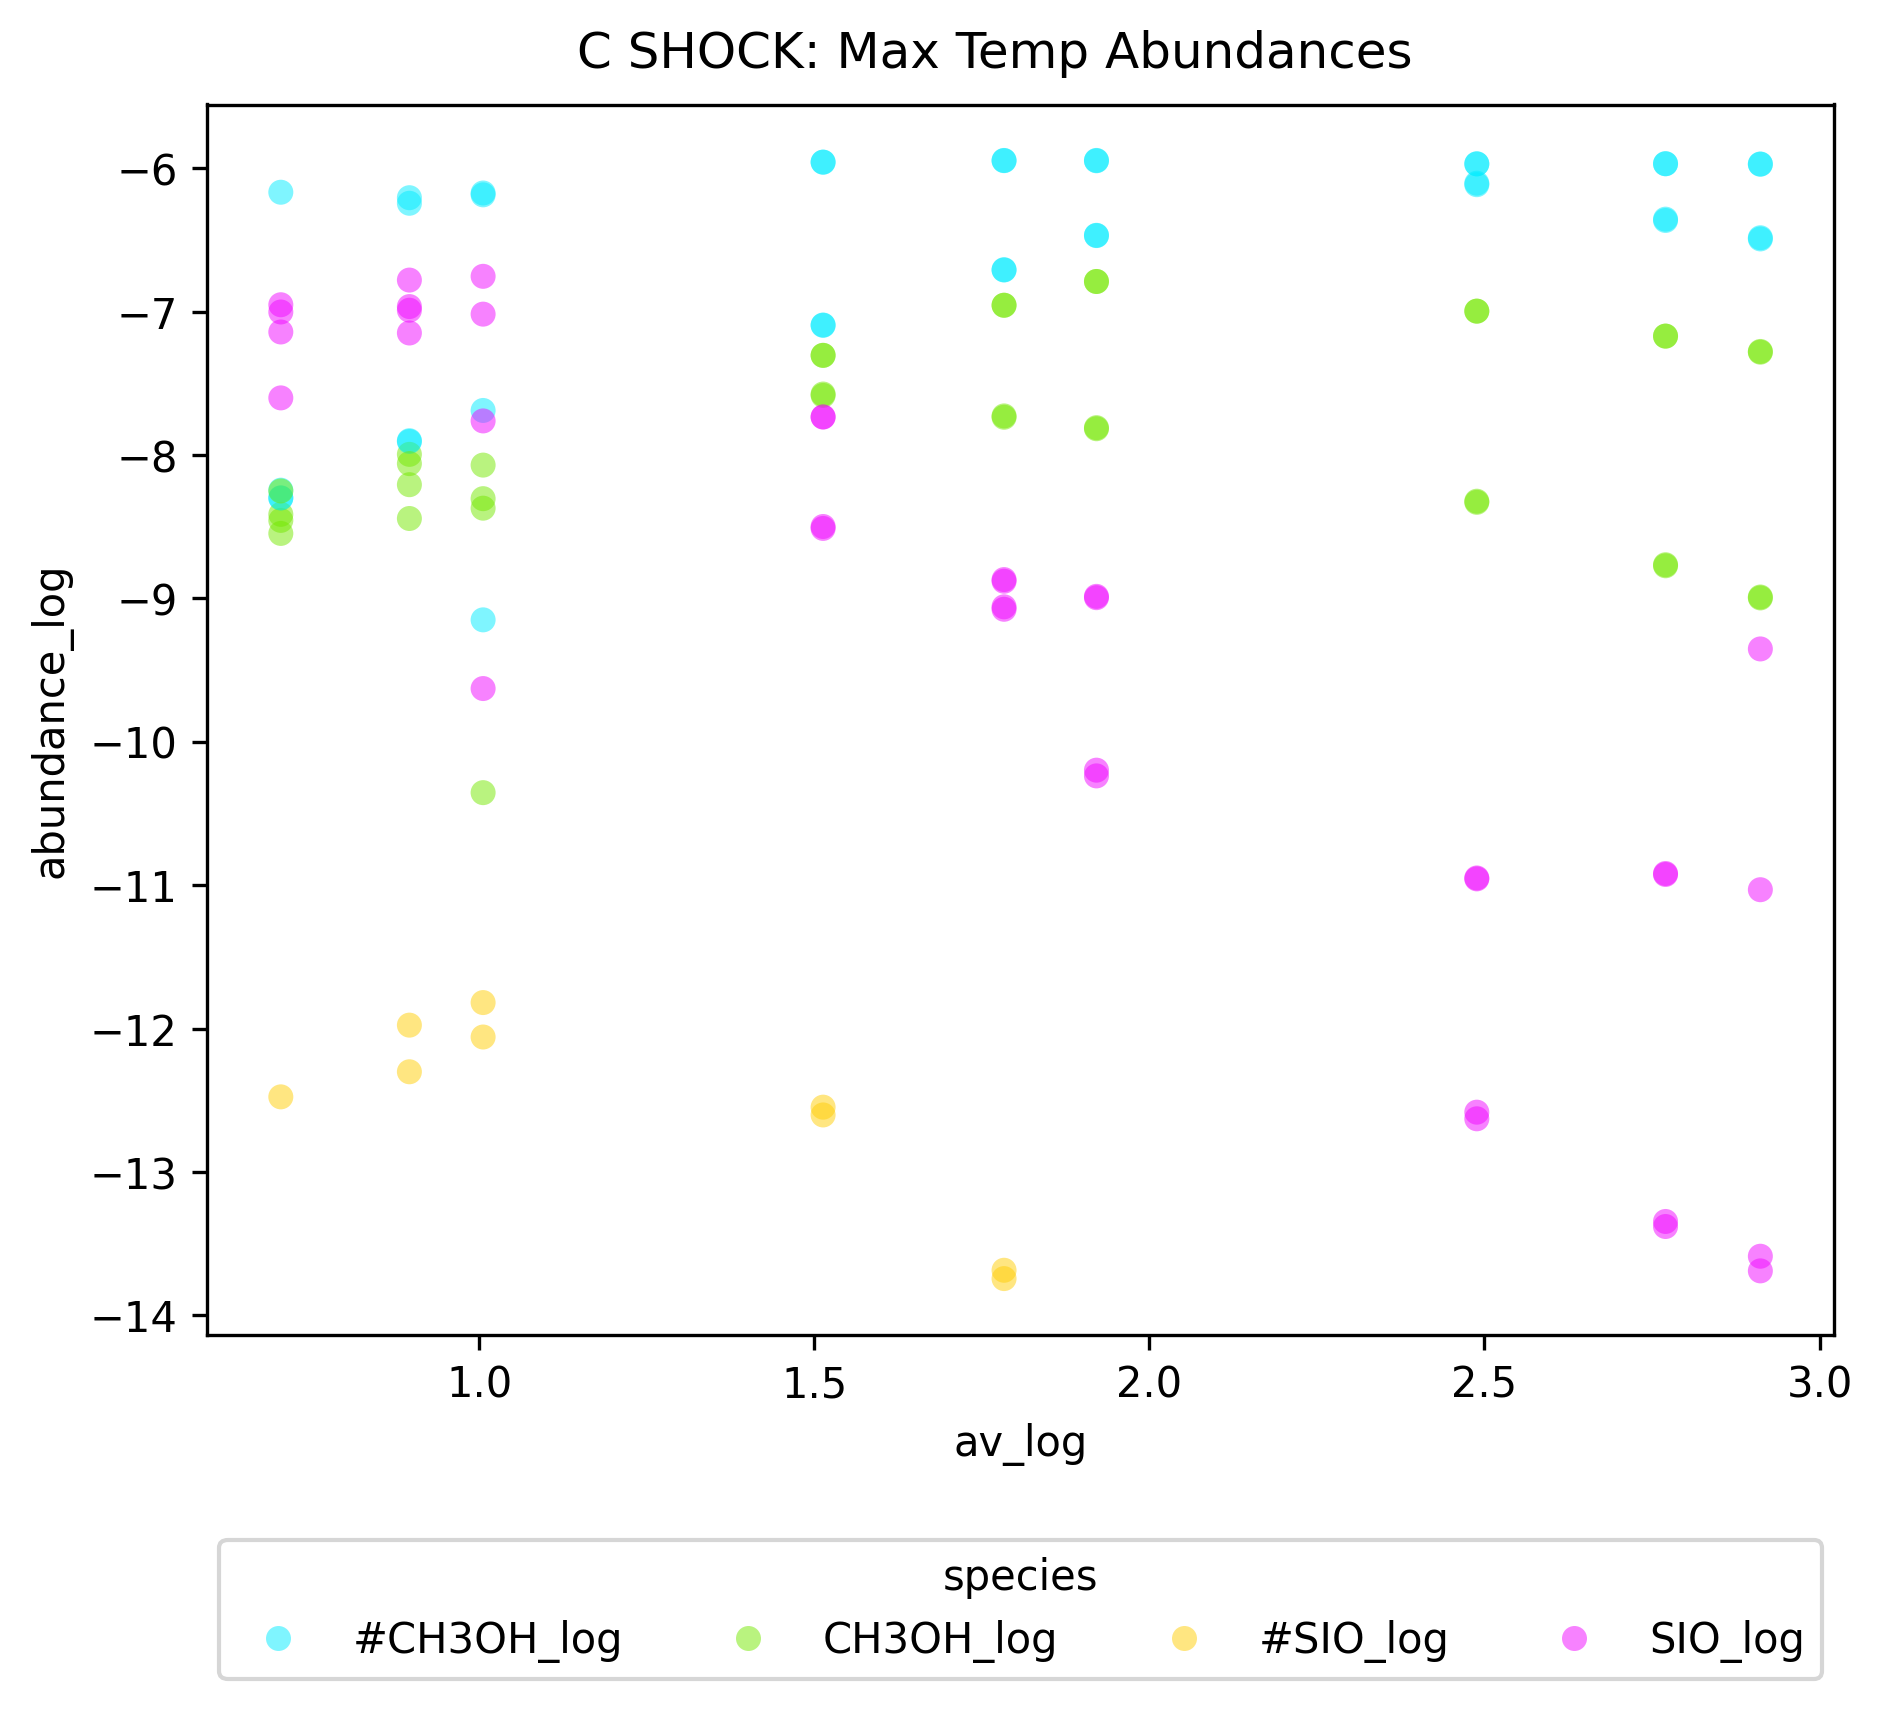
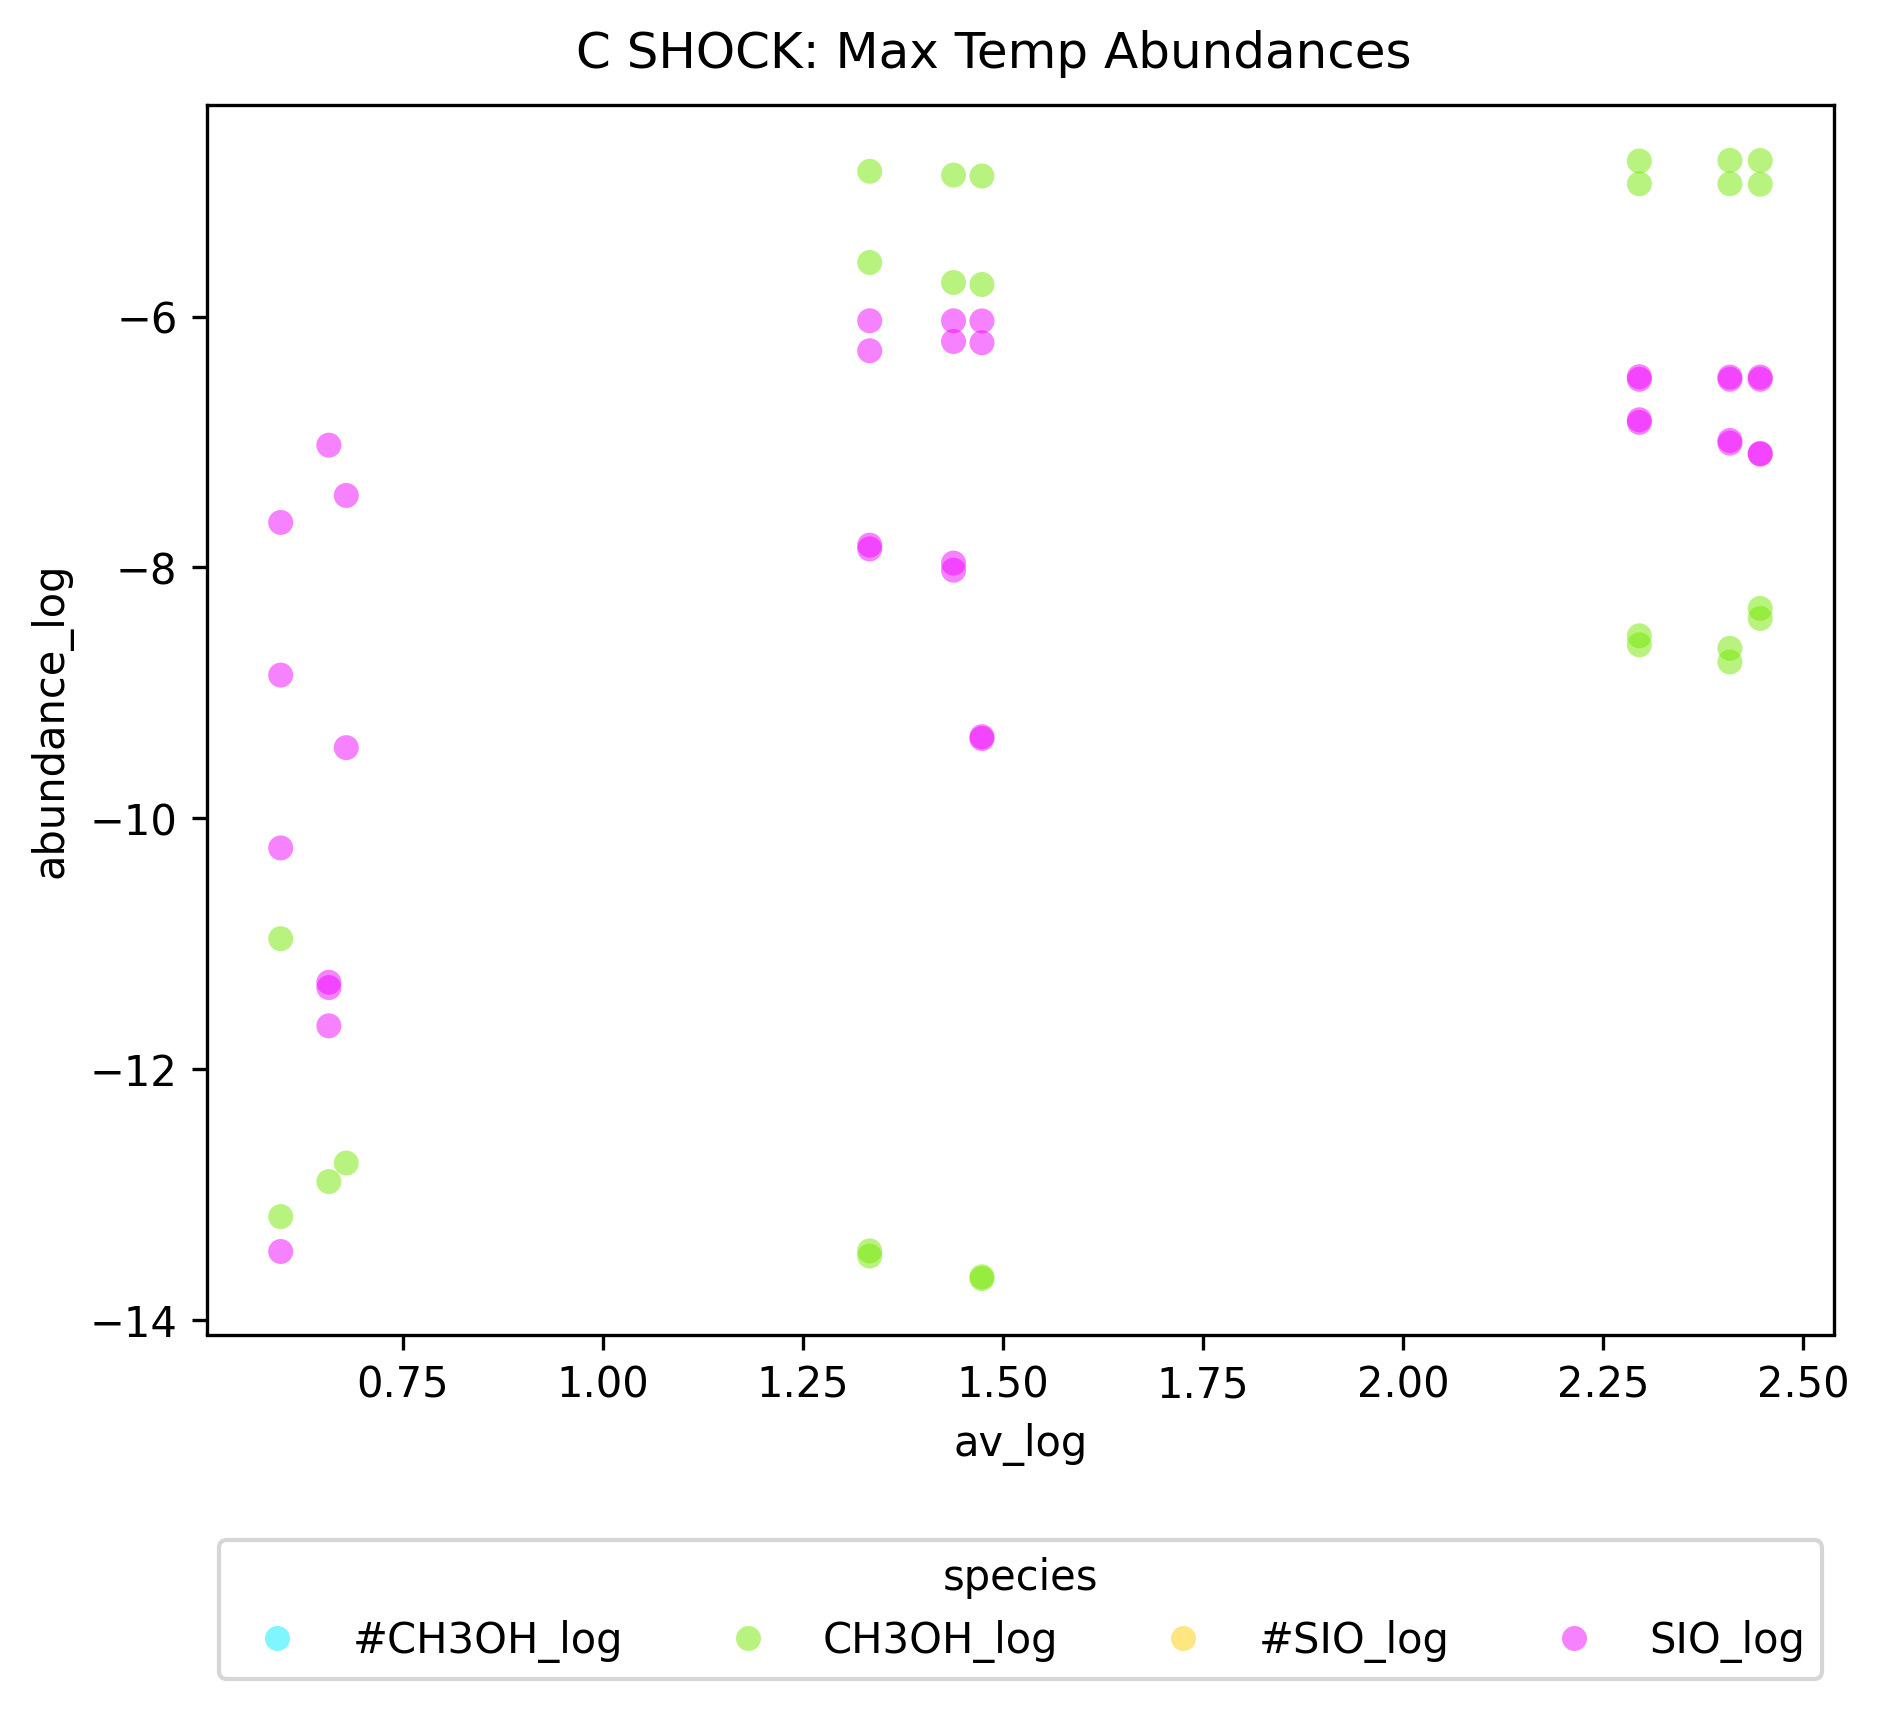
local abundances plots

diff --git a/Analysis/PlotLocalAbundance.py b/Analysis/PlotLocalAbundance.py
@@ -22,15 +22,17 @@ for tipo in physical:
     df= Plotting.buildDataframe(tipo, folder, physical, species)
     df['normalizedTime']= df['Time']/df.groupby('runName')['Time'].transform('max')
 
-    dfFinal= Plotting.localAbundanceDataframe(df, [f'{prop}_log' for prop in species], physical, tipo)
+    dfFinal= Plotting.localAbundanceDataframe(df, species, physical, tipo)
     
     logPhysical= [f'{prop}_log' for prop in physical[tipo]]
 
     for phys in logPhysical+['species']:
         Plotting.localAbundancePlot(dfFinal, phys, tipo, nameBase)
 
-    if tipo == constants.SHOCK:
-        dfFinal= Plotting.localAbundanceDataframe(df, [f'{prop}_log' for prop in species], physical, tipo, constants.TMAX)
-        Plotting.localAbundancePlot(dfFinal, phys, tipo, nameBase, constants.TMAX)
+        if tipo == constants.SHOCK:
+            dfFinal= Plotting.localAbundanceDataframe(df, species, physical, tipo, constants.TMAX)
+            Plotting.localAbundancePlot(dfFinal, phys, tipo, nameBase, constants.TMAX)
+            dfFinal= Plotting.localAbundanceDataframe(df, species, physical, tipo, constants.SHOCKAVG)
+            Plotting.localAbundancePlot(dfFinal, phys, tipo, nameBase, constants.SHOCKAVG)
 
     plt.close()

diff --git a/Analysis/Plotting.py b/Analysis/Plotting.py
@@ -20,13 +20,18 @@ def buildDataframe(tipo, folder, physical, species):
                             columns=constants.initparams[tipo]), rsuffix='_str')
     return df
 
-def localAbundanceDataframe(df, especies, physical, tipo, momento=constants.FINAL):
+def localAbundanceDataframe(df, species, physical, tipo, momento=constants.FINAL):
     if momento == constants.FINAL:
         dfFinal=df.loc[df['normalizedTime'] == 1]
     elif momento == constants.TMAX:
         dfFinal=df.loc[df['gasTemp'] == df.groupby('runName')['gasTemp'].transform('max')]
+    elif momento == constants.SHOCKAVG:
+        dfFinal=df.loc[df['gasTemp'] > 15].groupby(['runName']+constants.initparams[tipo],as_index=False)[['normalizedTime']+physical[tipo]+species].mean()
+        for prop in physical[tipo]+species:
+            with np.errstate(divide='ignore'): dfFinal[f'{prop}_log']=np.log10(dfFinal[prop])
 
     campos=['runName','normalizedTime']+[f'{prop}_log' for prop in physical[tipo]]+constants.initparams[tipo]
+    especies=[prop+'_log' for prop in species]
 
     tDic=dict([(key, []) for key in campos+['abundance_log', 'species']])
     for i in dfFinal.index:

diff --git a/Analysis/constants.py b/Analysis/constants.py
@@ -33,3 +33,4 @@ ABUNDANCE = 'abundance'
 
 FINAL='Final'
 TMAX='Max Temp'
+SHOCKAVG= 'Inside Shock Average'
